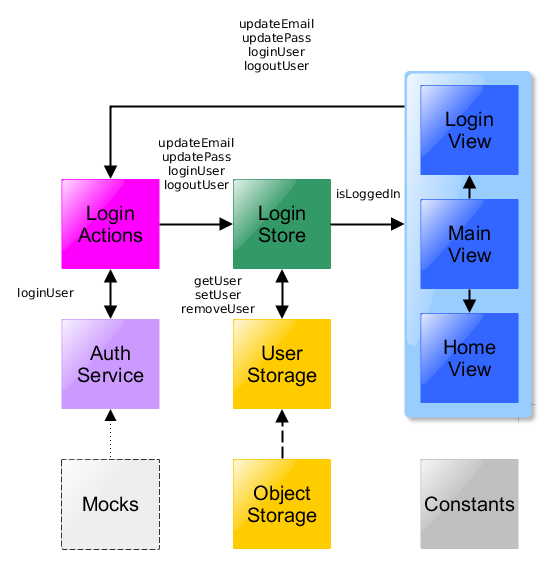
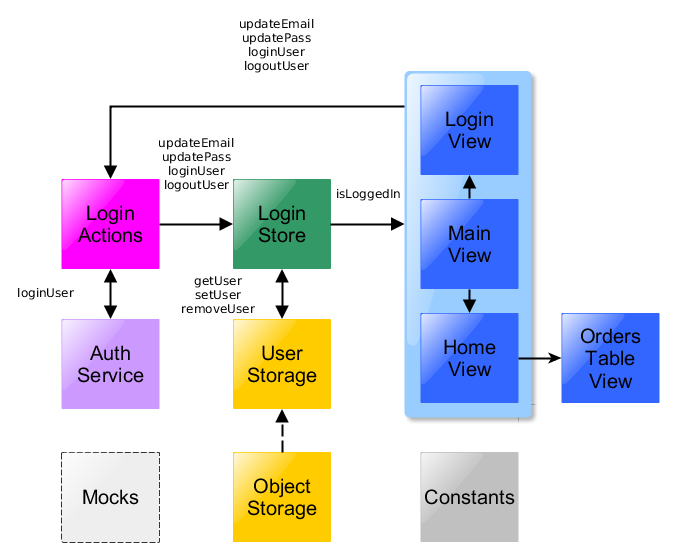
Added OrderTable as a new view component aislated of the Home view

diff --git a/src/components/home.js b/src/components/home.js
@@ -2,11 +2,9 @@ import React from 'react';
 import connectToStores from 'alt/utils/connectToStores';
 import LoginStore from 'stores/loginStore';
 import LoginActions from 'actions/loginActions';
-import Mocks from 'mocks/mocks';
+import OrderTable from 'components/ordersTable';
 
 require('../styles/navbar.styl');
-
-var Griddle = require('griddle-react');
 
 @connectToStores
 class Home extends React.Component {
@@ -39,13 +37,7 @@ class Home extends React.Component {
 		        </div>
 		      </ul>
 	      </nav>
-				<script src="//cdnjs.cloudflare.com/ajax/libs/underscore.js/1.6.0/underscore-min.js"></script>
-				<script src="//fb.me/react-0.13.2.js"></script>
-				<script src="//fb.me/JSXTransformer-0.13.2.js"></script>
-				<script type="text/javascript" src="scripts/griddle.js"></script>
-
-				<Griddle results={Mocks.getFakeData()} tableClassName="table" showFilter={true} showSettings={true} columns={["name", "city", "country"]}/>
-
+				<OrderTable/>
 			</div>
     );
   }

diff --git a/src/components/ordersTable.js b/src/components/ordersTable.js
@@ -1,0 +1,24 @@
+import React from 'react';
+import Mocks from 'mocks/mocks';
+
+var Griddle = require('griddle-react');
+
+class OrdersTable extends React.Component {
+
+  render() {
+    return (
+    	<div>
+				<script src="//cdnjs.cloudflare.com/ajax/libs/underscore.js/1.6.0/underscore-min.js"></script>
+				<script src="//fb.me/react-0.13.2.js"></script>
+				<script src="//fb.me/JSXTransformer-0.13.2.js"></script>
+				<script type="text/javascript" src="scripts/griddle.js"></script>
+
+				<Griddle results={Mocks.getFakeData()} tableClassName="table" showFilter={true} showSettings={true} columns={["name", "city", "country"]}/>
+
+			</div>
+    );
+  }
+
+}
+
+export default OrdersTable;
